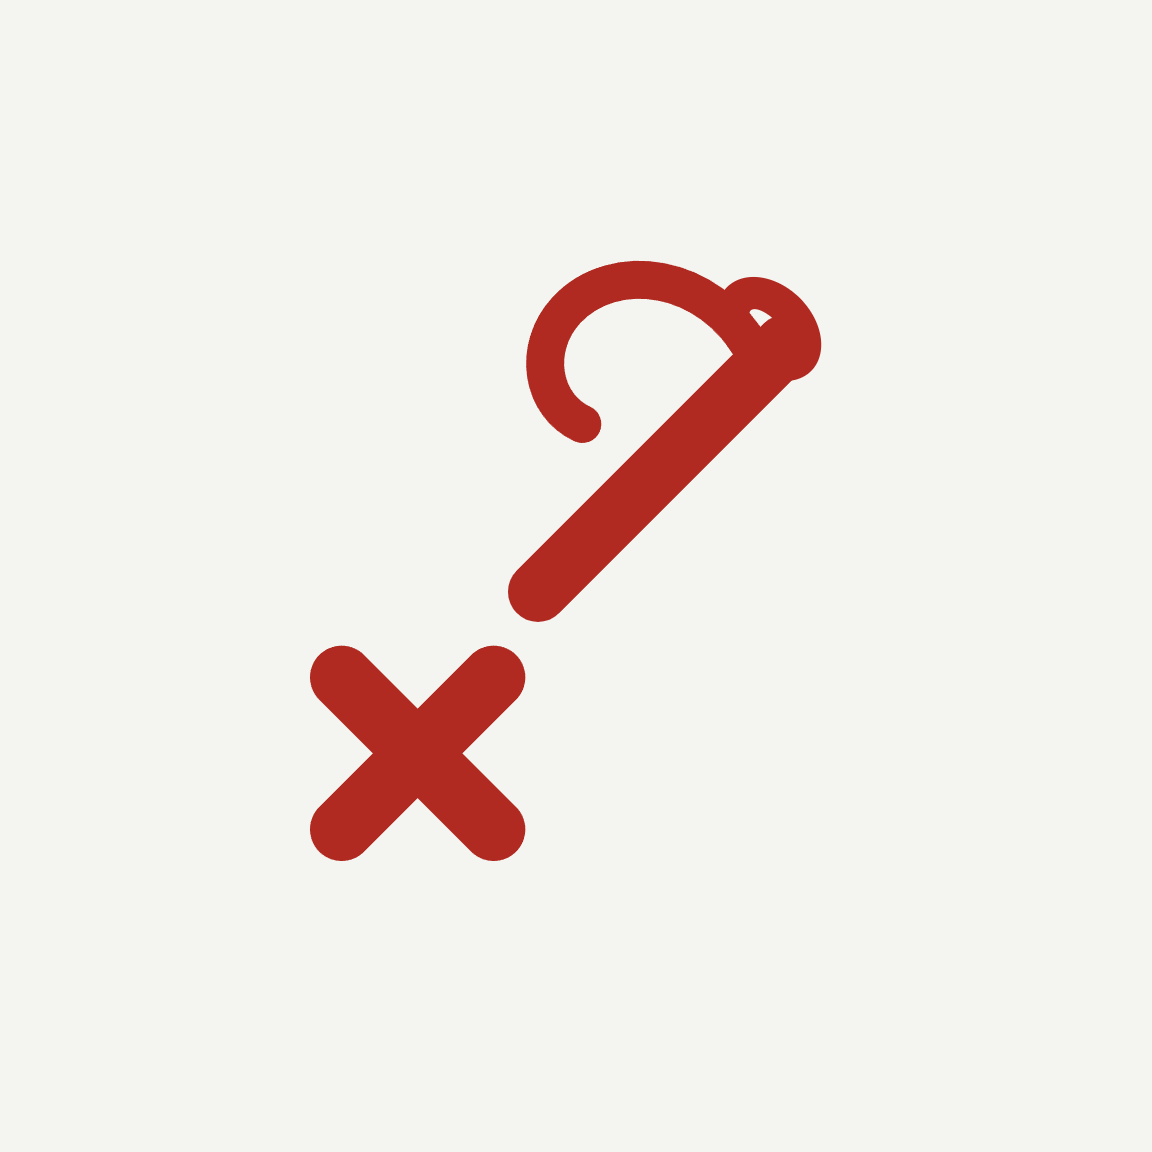
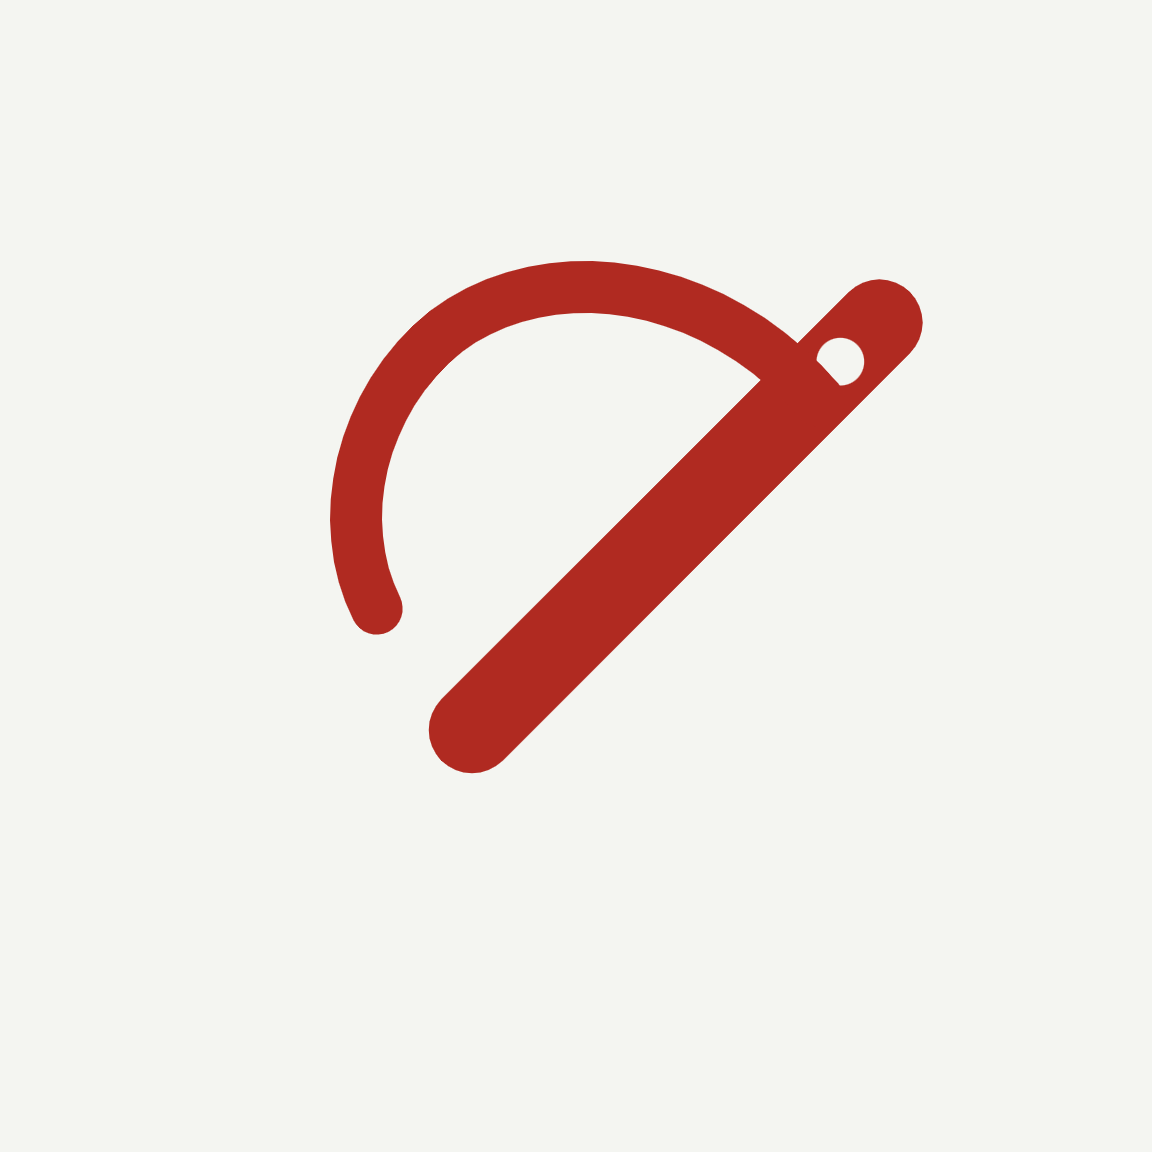
Знак: игла и нить вместо крестика
Зачем: старый знак с крестиком читался как «закрыть» и не нравился.
Что: игла с ушком и свободная дуга нити; знак заменён в приложении (Logo.tsx), прототипе (logo.svg, app.js), иконке 576, сниппете, фавиконе и скриншотах; описание знака в DESIGN и README обновлено.
Проверено: vite build и vitest (25) зелёные; PNG/JPG пересобраны в точных размерах (576, 1120x630, 32); фавикон 32x32 собран из того же знака.

Changed region(s): [[0.25, 0.2188, 0.8125, 0.75]]

diff --git a/docs/store/assets.html b/docs/store/assets.html
@@ -21,7 +21,7 @@
   .stage svg.grid { position: absolute; inset: 0; width: 100%; height: 100%; }
 
   .icon { width: 576px; height: 576px; display: grid; place-items: center; }
-  .icon .mark { color: var(--red); width: 380px; height: 380px; }
+  .icon .mark { color: var(--red); width: 520px; height: 520px; transform: translateY(38px); }
 
   .snippet { width: 1120px; height: 630px; padding: 72px; }
   .snippet .brand { display: flex; align-items: center; gap: 16px; font-family: 'Literata', Georgia, serif; font-size: 40px; font-weight: 600; letter-spacing: -0.01em; }
@@ -37,10 +37,9 @@
   <div id="root"></div>
   <script>
     const LOGO = `<svg class="mark" viewBox="0 0 24 24" aria-hidden="true">
-      <path d="M18.6 4.7 10.8 12.5" stroke="currentColor" stroke-width="1.9" stroke-linecap="round"/>
-      <ellipse cx="18.1" cy="4.2" rx="0.85" ry="1.35" transform="rotate(-45 18.1 4.2)" fill="none" stroke="currentColor" stroke-width="1.05"/>
-      <path d="M17.6 4.9C16.2 2.4 13.2 2 11.7 3.6c-1.1 1.2-.8 3 .5 3.6" fill="none" stroke="currentColor" stroke-width="1.2" stroke-linecap="round"/>
-      <path d="M4.6 15.2 9.4 20M9.4 15.2 4.6 20" stroke="currentColor" stroke-width="2" stroke-linecap="round"/>
+      <path d="M19 4.4 9.6 13.8" stroke="currentColor" stroke-width="2" stroke-linecap="round"/>
+      <circle cx="18.1" cy="5.3" r="0.55" fill="#f4f5f1"/>
+      <path d="M17.6 6.2C15.2 3.4 11.4 2.8 9 4.6 7 6.2 6.4 9 7.4 11" fill="none" stroke="currentColor" stroke-width="1.2" stroke-linecap="round"/>
     </svg>`;
 
     const GRID = `<svg class="grid" aria-hidden="true">

diff --git a/docs/design-preview/app.js b/docs/design-preview/app.js
@@ -6,10 +6,9 @@ const CROSS = (size = 12, color = 'currentColor', w = 2) =>
 const CHEVRON = `<svg width="22" height="22" viewBox="0 0 24 24" aria-hidden="true"><path d="M15 5 8 12l7 7" stroke="currentColor" stroke-width="1.8" fill="none" stroke-linecap="round" stroke-linejoin="round"/></svg>`;
 
 const LOGO = (size = 22) => `<svg width="${size}" height="${size}" viewBox="0 0 24 24" aria-hidden="true">
-  <path d="M18.6 4.7 10.8 12.5" stroke="currentColor" stroke-width="1.9" stroke-linecap="round"/>
-  <ellipse cx="18.1" cy="4.2" rx="0.85" ry="1.35" transform="rotate(-45 18.1 4.2)" fill="none" stroke="currentColor" stroke-width="1.05"/>
-  <path d="M17.6 4.9C16.2 2.4 13.2 2 11.7 3.6c-1.1 1.2-.8 3 .5 3.6" fill="none" stroke="currentColor" stroke-width="1.2" stroke-linecap="round"/>
-  <path d="M4.6 15.2 9.4 20M9.4 15.2 4.6 20" stroke="currentColor" stroke-width="2" stroke-linecap="round"/>
+  <path d="M19 4.4 9.6 13.8" stroke="currentColor" stroke-width="2" stroke-linecap="round"/>
+  <circle cx="18.1" cy="5.3" r="0.55" fill="#f4f5f1"/>
+  <path d="M17.6 6.2C15.2 3.4 11.4 2.8 9 4.6 7 6.2 6.4 9 7.4 11" fill="none" stroke="currentColor" stroke-width="1.2" stroke-linecap="round"/>
 </svg>`;
 const CHECK = `<svg width="56" height="56" viewBox="0 0 56 56" aria-hidden="true" class="check-mark"><path d="M12 30l12 12 20-26" stroke="currentColor" stroke-width="4" stroke-linecap="round" stroke-linejoin="round" fill="none"/></svg>`;
 

diff --git a/frontend/src/components/Logo.tsx b/frontend/src/components/Logo.tsx
@@ -12,10 +12,9 @@ export default function Logo({ size = 22 }: LogoProps) {
       fill="none"
       aria-hidden="true"
     >
-      <path d="M18.6 4.7 10.8 12.5" stroke="currentColor" strokeWidth="1.9" strokeLinecap="round" />
-      <ellipse cx="18.1" cy="4.2" rx="0.85" ry="1.35" transform="rotate(-45 18.1 4.2)" stroke="currentColor" strokeWidth="1.05" />
-      <path d="M17.6 4.9C16.2 2.4 13.2 2 11.7 3.6c-1.1 1.2-.8 3 .5 3.6" stroke="currentColor" strokeWidth="1.2" strokeLinecap="round" />
-      <path d="M4.6 15.2 9.4 20M9.4 15.2 4.6 20" stroke="currentColor" strokeWidth="2" strokeLinecap="round" />
+      <path d="M19 4.4 9.6 13.8" stroke="currentColor" strokeWidth="2" strokeLinecap="round" />
+      <circle cx="18.1" cy="5.3" r="0.55" fill="#F4F5F1" />
+      <path d="M17.6 6.2C15.2 3.4 11.4 2.8 9 4.6 7 6.2 6.4 9 7.4 11" stroke="currentColor" strokeWidth="1.2" strokeLinecap="round" />
     </svg>
   );
 }

diff --git a/docs/store/favicon.html b/docs/store/favicon.html
@@ -11,9 +11,9 @@
 <body>
   <div class="favicon">
     <svg viewBox="0 0 24 24" fill="none" aria-hidden="true">
-      <path d="M20.2 4.8 12.6 12.4" stroke="currentColor" stroke-width="2.4" stroke-linecap="round"/>
-      <ellipse cx="19.7" cy="4.3" rx="0.85" ry="1.2" transform="rotate(-45 19.7 4.3)" stroke="currentColor" stroke-width="0.95"/>
-      <path d="M5.6 14.8 11.6 20.8M11.6 14.8 5.6 20.8" stroke="currentColor" stroke-width="2.6" stroke-linecap="round"/>
+      <path d="M20.2 4 10.6 13.6" stroke="currentColor" stroke-width="2.4" stroke-linecap="round"/>
+      <circle cx="19.2" cy="5" r="0.6" fill="#f4f5f1"/>
+      <path d="M18.6 5.8C16 3 11.6 3 9.4 5.4 7.6 7.4 7.4 9.8 8.4 11.4" stroke="currentColor" stroke-width="1.5" stroke-linecap="round"/>
     </svg>
   </div>
 </body>

diff --git a/DESIGN.md b/DESIGN.md
@@ -124,7 +124,7 @@
 - **Высота 600:** заголовок и начало контента видны сразу, нижняя панель
   72px липнет к низу, шторки — `max-height: 88dvh` с внутренней прокруткой
   и закреплённым действием.
-- **Верхняя панель** 56px: знак 22px (игла с нитью и маленький крестик) +
+- **Верхняя панель** 56px: знак 22px (игла с нитью) +
   «СобериЗаказ» Literata
   17/600, справа меню 44×44. На внутренних экранах — назад, название, меню.
 - **Нижняя панель действия** 48px кнопка + «Пропустить» текстом; липнет к низу,
@@ -138,10 +138,9 @@
 
 ## 5. Компоненты
 
-**Знак.** Красная игла (2.1px, скруглённые концы) с ушком, нить петлёй выходит
-из ушка, а под остриём — маленький крестик-стежок. Композиция диагональная:
-это не «X», а игла, которая только что сделала стежок, поэтому знак не
-читается как кнопка «закрыть». Размер в шапке — 22px, файл
+**Знак.** Красная игла (2px, скруглённые концы) с ушком; из ушка выходит нить
+и свободной дугой ложится влево. Крестика нет — только игла и нить, поэтому
+знак не читается как кнопка «закрыть». Размер в шапке — 22px, файл
 `docs/design-preview/logo.svg`, фавикон оттуда же.
 
 **Кнопки.** Primary — графит, белый текст, 48px, радиус 6. Secondary — прозрачная
